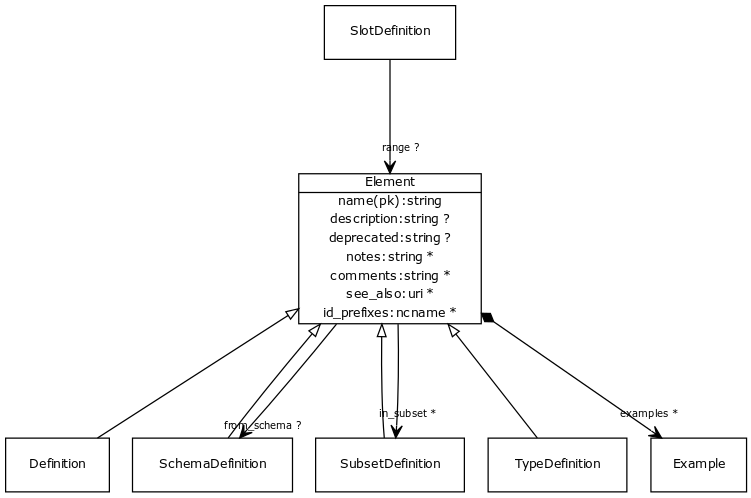
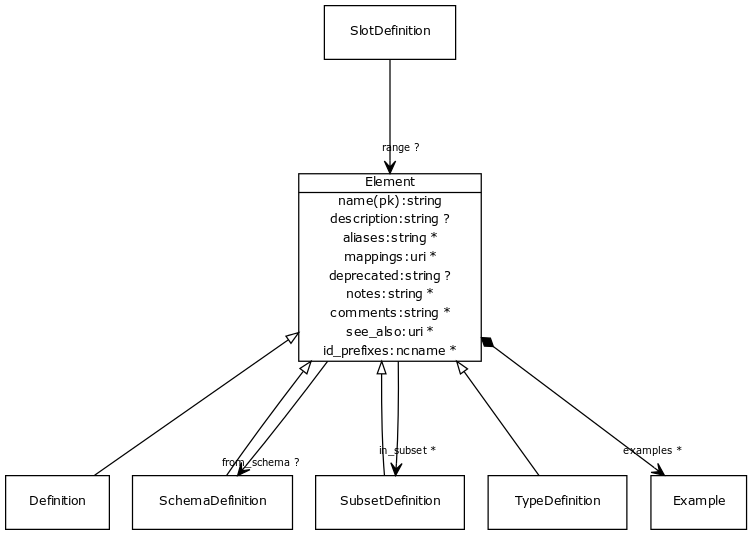
Re-add aliases and mappings for modeling use

diff --git a/biolinkml/meta.py b/biolinkml/meta.py
@@ -1,5 +1,5 @@
 # Auto generated from meta.yaml by pythongen.py version: 0.1.0
-# Generation date: 2019-01-26 12:27
+# Generation date: 2019-01-28 15:23
 # Schema: metamodel
 #
 # id: http://w3id.org/biolink/biolinkml/meta
@@ -64,6 +64,8 @@ class Element(YAMLRoot):
     # === element ===
     name: Union[str, ElementName]
     description: Optional[str] = None
+    aliases: List[str] = empty_list()
+    mappings: List[Uri] = empty_list()
     deprecated: Optional[str] = None
     notes: List[str] = empty_list()
     comments: List[str] = empty_list()
@@ -93,6 +95,8 @@ class SchemaDefinition(Element):
 
     # === element ===
     name: Union[str, SchemaDefinitionName]
+    aliases: List[str] = empty_list()
+    mappings: List[Uri] = empty_list()
     deprecated: Optional[str] = None
     notes: List[str] = empty_list()
     comments: List[str] = empty_list()
@@ -155,6 +159,8 @@ class TypeDefinition(Element):
     # === element ===
     name: Union[str, TypeDefinitionName]
     description: Optional[str] = None
+    aliases: List[str] = empty_list()
+    mappings: List[Uri] = empty_list()
     deprecated: Optional[str] = None
     notes: List[str] = empty_list()
     comments: List[str] = empty_list()
@@ -186,6 +192,8 @@ class SubsetDefinition(Element):
     # === element ===
     name: Union[str, SubsetDefinitionName]
     description: Optional[str] = None
+    aliases: List[str] = empty_list()
+    mappings: List[Uri] = empty_list()
     deprecated: Optional[str] = None
     notes: List[str] = empty_list()
     comments: List[str] = empty_list()
@@ -212,6 +220,8 @@ class Definition(Element):
     # === element ===
     name: Union[str, DefinitionName]
     description: Optional[str] = None
+    aliases: List[str] = empty_list()
+    mappings: List[Uri] = empty_list()
     deprecated: Optional[str] = None
     notes: List[str] = empty_list()
     comments: List[str] = empty_list()
@@ -249,6 +259,8 @@ class SlotDefinition(Definition):
     # === element ===
     name: Union[str, SlotDefinitionName]
     description: Optional[str] = None
+    aliases: List[str] = empty_list()
+    mappings: List[Uri] = empty_list()
     deprecated: Optional[str] = None
     notes: List[str] = empty_list()
     comments: List[str] = empty_list()
@@ -310,6 +322,8 @@ class ClassDefinition(Definition):
     # === element ===
     name: Union[str, ClassDefinitionName]
     description: Optional[str] = None
+    aliases: List[str] = empty_list()
+    mappings: List[Uri] = empty_list()
     deprecated: Optional[str] = None
     notes: List[str] = empty_list()
     comments: List[str] = empty_list()

diff --git a/tests/target/meta.py b/tests/target/meta.py
@@ -1,5 +1,5 @@
 # Auto generated from meta.yaml by pythongen.py version: 0.1.0
-# Generation date: 2019-01-27 17:33
+# Generation date: 2019-01-28 15:44
 # Schema: metamodel
 #
 # id: http://w3id.org/biolink/biolinkml/meta
@@ -64,6 +64,8 @@ class Element(YAMLRoot):
     # === element ===
     name: Union[str, ElementName]
     description: Optional[str] = None
+    aliases: List[str] = empty_list()
+    mappings: List[Uri] = empty_list()
     deprecated: Optional[str] = None
     notes: List[str] = empty_list()
     comments: List[str] = empty_list()
@@ -93,6 +95,8 @@ class SchemaDefinition(Element):
 
     # === element ===
     name: Union[str, SchemaDefinitionName]
+    aliases: List[str] = empty_list()
+    mappings: List[Uri] = empty_list()
     deprecated: Optional[str] = None
     notes: List[str] = empty_list()
     comments: List[str] = empty_list()
@@ -155,6 +159,8 @@ class TypeDefinition(Element):
     # === element ===
     name: Union[str, TypeDefinitionName]
     description: Optional[str] = None
+    aliases: List[str] = empty_list()
+    mappings: List[Uri] = empty_list()
     deprecated: Optional[str] = None
     notes: List[str] = empty_list()
     comments: List[str] = empty_list()
@@ -186,6 +192,8 @@ class SubsetDefinition(Element):
     # === element ===
     name: Union[str, SubsetDefinitionName]
     description: Optional[str] = None
+    aliases: List[str] = empty_list()
+    mappings: List[Uri] = empty_list()
     deprecated: Optional[str] = None
     notes: List[str] = empty_list()
     comments: List[str] = empty_list()
@@ -212,6 +220,8 @@ class Definition(Element):
     # === element ===
     name: Union[str, DefinitionName]
     description: Optional[str] = None
+    aliases: List[str] = empty_list()
+    mappings: List[Uri] = empty_list()
     deprecated: Optional[str] = None
     notes: List[str] = empty_list()
     comments: List[str] = empty_list()
@@ -249,6 +259,8 @@ class SlotDefinition(Definition):
     # === element ===
     name: Union[str, SlotDefinitionName]
     description: Optional[str] = None
+    aliases: List[str] = empty_list()
+    mappings: List[Uri] = empty_list()
     deprecated: Optional[str] = None
     notes: List[str] = empty_list()
     comments: List[str] = empty_list()
@@ -310,6 +322,8 @@ class ClassDefinition(Definition):
     # === element ===
     name: Union[str, ClassDefinitionName]
     description: Optional[str] = None
+    aliases: List[str] = empty_list()
+    mappings: List[Uri] = empty_list()
     deprecated: Optional[str] = None
     notes: List[str] = empty_list()
     comments: List[str] = empty_list()

diff --git a/docs/index.md b/docs/index.md
@@ -20,6 +20,7 @@ A metamodel for defining biolink related schemas
 
  * [abstract](abstract.md) - an abstract class is a high level class or slot that is typically used to group common slots together and cannot be directly instantiated.
  * [alias](alias.md) - the name used for a slot in the context of its owning class.  If present, this is used instead of the actual slot name.
+ * [aliases](aliases.md)
  * [apply_to](apply_to.md) - Used to extend class or slot definitions. For example, if we have a core schema where a gene has two slots for identifier and symbol, and we have a specialized schema for my_organism where we wish to add a slot systematic_name, we can avoid subclassing by defining a class gene_my_organism, adding the slot to this class, and then adding an apply_to pointing to the gene class. The new slot will be 'injected into' the gene class.
     * [class definition.apply_to](class_definition_apply_to.md)
     * [slot definition.apply_to](slot_definition_apply_to.md)
@@ -54,6 +55,7 @@ A metamodel for defining biolink related schemas
  * [license](license.md) *subsets*: (owl) - license for the schema
  * [local name](local_name.md) - the nsname (sans ':' for a given prefix)
  * [local_names](local_names.md) - map from local identifier to slot
+ * [mappings](mappings.md) - A list of terms from different schemas or terminology systems that have comparable meaning. These may include terms that are precisely equivalent, broader or narrower in meaning, or otherwise semantically related but not equivalent from a strict ontological perspective.
  * [metamodel_version](metamodel_version.md) *subsets*: (owl) - Version of the metamodel used to load the schema
  * [mixin](mixin.md) - this slot or class can only be used as a mixin -- equivalent to abstract
  * [mixins](mixins.md) - List of definitions to be mixed in. Targets may be any definition of the same type

diff --git a/docs/ClassDefinition.md b/docs/ClassDefinition.md
@@ -24,6 +24,9 @@ URI: [http://w3id.org/biolink/biolinkml/meta/ClassDefinition](http://w3id.org/bi
     * Description: an abstract class is a high level class or slot that is typically used to group common slots together and cannot be directly instantiated.
     * range: [Boolean](Boolean.md)
     * inherited from: [Definition](Definition.md)
+ * [aliases](aliases.md)<sub>opt</sub>
+    * range: [[String](String.md)]
+    * inherited from: [Element](Element.md)
  * [class definition.apply_to](class_definition_apply_to.md)<sub>opt</sub>
     * Description: Used to extend class or slot definitions. For example, if we have a core schema where a gene has two slots for identifier and symbol, and we have a specialized schema for my_organism where we wish to add a slot systematic_name, we can avoid subclassing by defining a class gene_my_organism, adding the slot to this class, and then adding an apply_to pointing to the gene class. The new slot will be 'injected into' the gene class.
     * range: [[ClassDefinition](ClassDefinition.md)]
@@ -71,6 +74,10 @@ URI: [http://w3id.org/biolink/biolinkml/meta/ClassDefinition](http://w3id.org/bi
     * Description: map from local identifier to slot
     * range: [[String](String.md)]
     * inherited from: [Definition](Definition.md)
+ * [mappings](mappings.md)<sub>opt</sub>
+    * Description: A list of terms from different schemas or terminology systems that have comparable meaning. These may include terms that are precisely equivalent, broader or narrower in meaning, or otherwise semantically related but not equivalent from a strict ontological perspective.
+    * range: [[Uri](Uri.md)]
+    * inherited from: [Element](Element.md)
  * [mixin](mixin.md)<sub>opt</sub>
     * Description: this slot or class can only be used as a mixin -- equivalent to abstract
     * range: [Boolean](Boolean.md)

diff --git a/docs/Definition.md b/docs/Definition.md
@@ -24,6 +24,9 @@ URI: [http://w3id.org/biolink/biolinkml/meta/Definition](http://w3id.org/biolink
  * [abstract](abstract.md)<sub>opt</sub>
     * Description: an abstract class is a high level class or slot that is typically used to group common slots together and cannot be directly instantiated.
     * range: [Boolean](Boolean.md)
+ * [aliases](aliases.md)<sub>opt</sub>
+    * range: [[String](String.md)]
+    * inherited from: [Element](Element.md)
  * [apply_to](apply_to.md)<sub>opt</sub>
     * Description: Used to extend class or slot definitions. For example, if we have a core schema where a gene has two slots for identifier and symbol, and we have a specialized schema for my_organism where we wish to add a slot systematic_name, we can avoid subclassing by defining a class gene_my_organism, adding the slot to this class, and then adding an apply_to pointing to the gene class. The new slot will be 'injected into' the gene class.
     * range: [[Definition](Definition.md)]
@@ -61,6 +64,10 @@ URI: [http://w3id.org/biolink/biolinkml/meta/Definition](http://w3id.org/biolink
  * [local_names](local_names.md)<sub>opt</sub>
     * Description: map from local identifier to slot
     * range: [[String](String.md)]
+ * [mappings](mappings.md)<sub>opt</sub>
+    * Description: A list of terms from different schemas or terminology systems that have comparable meaning. These may include terms that are precisely equivalent, broader or narrower in meaning, or otherwise semantically related but not equivalent from a strict ontological perspective.
+    * range: [[Uri](Uri.md)]
+    * inherited from: [Element](Element.md)
  * [mixin](mixin.md)<sub>opt</sub>
     * Description: this slot or class can only be used as a mixin -- equivalent to abstract
     * range: [Boolean](Boolean.md)

diff --git a/docs/SubsetDefinition.md b/docs/SubsetDefinition.md
@@ -17,6 +17,9 @@ URI: [http://w3id.org/biolink/biolinkml/meta/SubsetDefinition](http://w3id.org/b
  *  **[SchemaDefinition](SchemaDefinition.md)** *[subsets](subsets.md)<sub>opt</sub>*  **[[SubsetDefinition](SubsetDefinition.md)]**
 ## Fields
 
+ * [aliases](aliases.md)<sub>opt</sub>
+    * range: [[String](String.md)]
+    * inherited from: [Element](Element.md)
  * [comments](comments.md) *subsets*: (owl)<sub>opt</sub>
     * Description: notes and comments about an element intended for external consumption
     * range: [[String](String.md)]
@@ -44,6 +47,10 @@ URI: [http://w3id.org/biolink/biolinkml/meta/SubsetDefinition](http://w3id.org/b
  * [in_subset](in_subset.md)<sub>opt</sub>
     * Description: used to indicate membership of a term in a defined subset of biolink terms used for a particular domain or application (e.g. the translator_minimal subset holding the minimal set of predicates used in a translator knowledge graph)
     * range: [[SubsetDefinition](SubsetDefinition.md)]
+    * inherited from: [Element](Element.md)
+ * [mappings](mappings.md)<sub>opt</sub>
+    * Description: A list of terms from different schemas or terminology systems that have comparable meaning. These may include terms that are precisely equivalent, broader or narrower in meaning, or otherwise semantically related but not equivalent from a strict ontological perspective.
+    * range: [[Uri](Uri.md)]
     * inherited from: [Element](Element.md)
  * [name](name.md) *subsets*: (owl)
     * Description: the unique name of the element within the context of the schema

diff --git a/docs/TypeDefinition.md b/docs/TypeDefinition.md
@@ -17,6 +17,9 @@ URI: [http://w3id.org/biolink/biolinkml/meta/TypeDefinition](http://w3id.org/bio
  *  **[SchemaDefinition](SchemaDefinition.md)** *[types](types.md)<sub>opt</sub>*  **[[TypeDefinition](TypeDefinition.md)]**
 ## Fields
 
+ * [aliases](aliases.md)<sub>opt</sub>
+    * range: [[String](String.md)]
+    * inherited from: [Element](Element.md)
  * [base](base.md)<sub>opt</sub>
     * Description: python base type that implements this type definition
     * range: [String](String.md)
@@ -47,6 +50,10 @@ URI: [http://w3id.org/biolink/biolinkml/meta/TypeDefinition](http://w3id.org/bio
  * [in_subset](in_subset.md)<sub>opt</sub>
     * Description: used to indicate membership of a term in a defined subset of biolink terms used for a particular domain or application (e.g. the translator_minimal subset holding the minimal set of predicates used in a translator knowledge graph)
     * range: [[SubsetDefinition](SubsetDefinition.md)]
+    * inherited from: [Element](Element.md)
+ * [mappings](mappings.md)<sub>opt</sub>
+    * Description: A list of terms from different schemas or terminology systems that have comparable meaning. These may include terms that are precisely equivalent, broader or narrower in meaning, or otherwise semantically related but not equivalent from a strict ontological perspective.
+    * range: [[Uri](Uri.md)]
     * inherited from: [Element](Element.md)
  * [name](name.md) *subsets*: (owl)
     * Description: the unique name of the element within the context of the schema

diff --git a/docs/Element.md b/docs/Element.md
@@ -19,6 +19,8 @@ URI: [http://w3id.org/biolink/biolinkml/meta/Element](http://w3id.org/biolink/bi
  *  **[SlotDefinition](SlotDefinition.md)** *[range](range.md)<sub>opt</sub>*  **[Element](Element.md)**
 ## Fields
 
+ * [aliases](aliases.md)<sub>opt</sub>
+    * range: [[String](String.md)]
  * [comments](comments.md) *subsets*: (owl)<sub>opt</sub>
     * Description: notes and comments about an element intended for external consumption
     * range: [[String](String.md)]
@@ -40,6 +42,9 @@ URI: [http://w3id.org/biolink/biolinkml/meta/Element](http://w3id.org/biolink/bi
  * [in_subset](in_subset.md)<sub>opt</sub>
     * Description: used to indicate membership of a term in a defined subset of biolink terms used for a particular domain or application (e.g. the translator_minimal subset holding the minimal set of predicates used in a translator knowledge graph)
     * range: [[SubsetDefinition](SubsetDefinition.md)]
+ * [mappings](mappings.md)<sub>opt</sub>
+    * Description: A list of terms from different schemas or terminology systems that have comparable meaning. These may include terms that are precisely equivalent, broader or narrower in meaning, or otherwise semantically related but not equivalent from a strict ontological perspective.
+    * range: [[Uri](Uri.md)]
  * [name](name.md) *subsets*: (owl)
     * Description: the unique name of the element within the context of the schema
     * range: [String](String.md)

diff --git a/docs/SlotDefinition.md b/docs/SlotDefinition.md
@@ -30,6 +30,9 @@ URI: [http://w3id.org/biolink/biolinkml/meta/SlotDefinition](http://w3id.org/bio
  * [alias](alias.md)<sub>opt</sub>
     * Description: the name used for a slot in the context of its owning class.  If present, this is used instead of the actual slot name.
     * range: [String](String.md)
+ * [aliases](aliases.md)<sub>opt</sub>
+    * range: [[String](String.md)]
+    * inherited from: [Element](Element.md)
  * [comments](comments.md) *subsets*: (owl)<sub>opt</sub>
     * Description: notes and comments about an element intended for external consumption
     * range: [[String](String.md)]
@@ -92,6 +95,10 @@ implicitly asserts that X is an instance of C1
     * Description: map from local identifier to slot
     * range: [[String](String.md)]
     * inherited from: [Definition](Definition.md)
+ * [mappings](mappings.md)<sub>opt</sub>
+    * Description: A list of terms from different schemas or terminology systems that have comparable meaning. These may include terms that are precisely equivalent, broader or narrower in meaning, or otherwise semantically related but not equivalent from a strict ontological perspective.
+    * range: [[Uri](Uri.md)]
+    * inherited from: [Element](Element.md)
  * [mixin](mixin.md)<sub>opt</sub>
     * Description: this slot or class can only be used as a mixin -- equivalent to abstract
     * range: [Boolean](Boolean.md)

diff --git a/docs/SchemaDefinition.md b/docs/SchemaDefinition.md
@@ -16,6 +16,9 @@ URI: [http://w3id.org/biolink/biolinkml/meta/SchemaDefinition](http://w3id.org/b
  *  **[Element](Element.md)** *[from_schema](from_schema.md)<sub>opt</sub>*  **[SchemaDefinition](SchemaDefinition.md)**
 ## Fields
 
+ * [aliases](aliases.md)<sub>opt</sub>
+    * range: [[String](String.md)]
+    * inherited from: [Element](Element.md)
  * [classes](classes.md)<sub>opt</sub>
     * Description: class definitions
     * range: [[ClassDefinition](ClassDefinition.md)]
@@ -64,6 +67,10 @@ URI: [http://w3id.org/biolink/biolinkml/meta/SchemaDefinition](http://w3id.org/b
  * [license](license.md) *subsets*: (owl)<sub>opt</sub>
     * Description: license for the schema
     * range: [String](String.md)
+ * [mappings](mappings.md)<sub>opt</sub>
+    * Description: A list of terms from different schemas or terminology systems that have comparable meaning. These may include terms that are precisely equivalent, broader or narrower in meaning, or otherwise semantically related but not equivalent from a strict ontological perspective.
+    * range: [[Uri](Uri.md)]
+    * inherited from: [Element](Element.md)
  * [metamodel_version](metamodel_version.md) *subsets*: (owl)<sub>opt</sub>
     * Description: Version of the metamodel used to load the schema
     * range: [String](String.md)

diff --git a/docs/mappings.md b/docs/mappings.md
@@ -1,0 +1,22 @@
+# Slot: mappings
+
+
+A list of terms from different schemas or terminology systems that have comparable meaning. These may include terms that are precisely equivalent, broader or narrower in meaning, or otherwise semantically related but not equivalent from a strict ontological perspective.
+
+URI: [http://w3id.org/biolink/biolinkml/meta/mappings](slot_uri)
+## Domain and Range
+
+[Element](Element.md) -><sub>opt</sub> [[Uri](Uri.md)]
+## Inheritance
+
+## Children
+
+## Used by
+
+ * [ClassDefinition](ClassDefinition.md)
+ * [Definition](Definition.md)
+ * [Element](Element.md)
+ * [SchemaDefinition](SchemaDefinition.md)
+ * [SlotDefinition](SlotDefinition.md)
+ * [SubsetDefinition](SubsetDefinition.md)
+ * [TypeDefinition](TypeDefinition.md)

diff --git a/docs/aliases.md b/docs/aliases.md
@@ -1,0 +1,22 @@
+# Slot: aliases
+
+
+
+
+URI: [http://w3id.org/biolink/biolinkml/meta/aliases](slot_uri)
+## Domain and Range
+
+[Element](Element.md) -><sub>opt</sub> [[String](String.md)]
+## Inheritance
+
+## Children
+
+## Used by
+
+ * [ClassDefinition](ClassDefinition.md)
+ * [Definition](Definition.md)
+ * [Element](Element.md)
+ * [SchemaDefinition](SchemaDefinition.md)
+ * [SlotDefinition](SlotDefinition.md)
+ * [SubsetDefinition](SubsetDefinition.md)
+ * [TypeDefinition](TypeDefinition.md)
